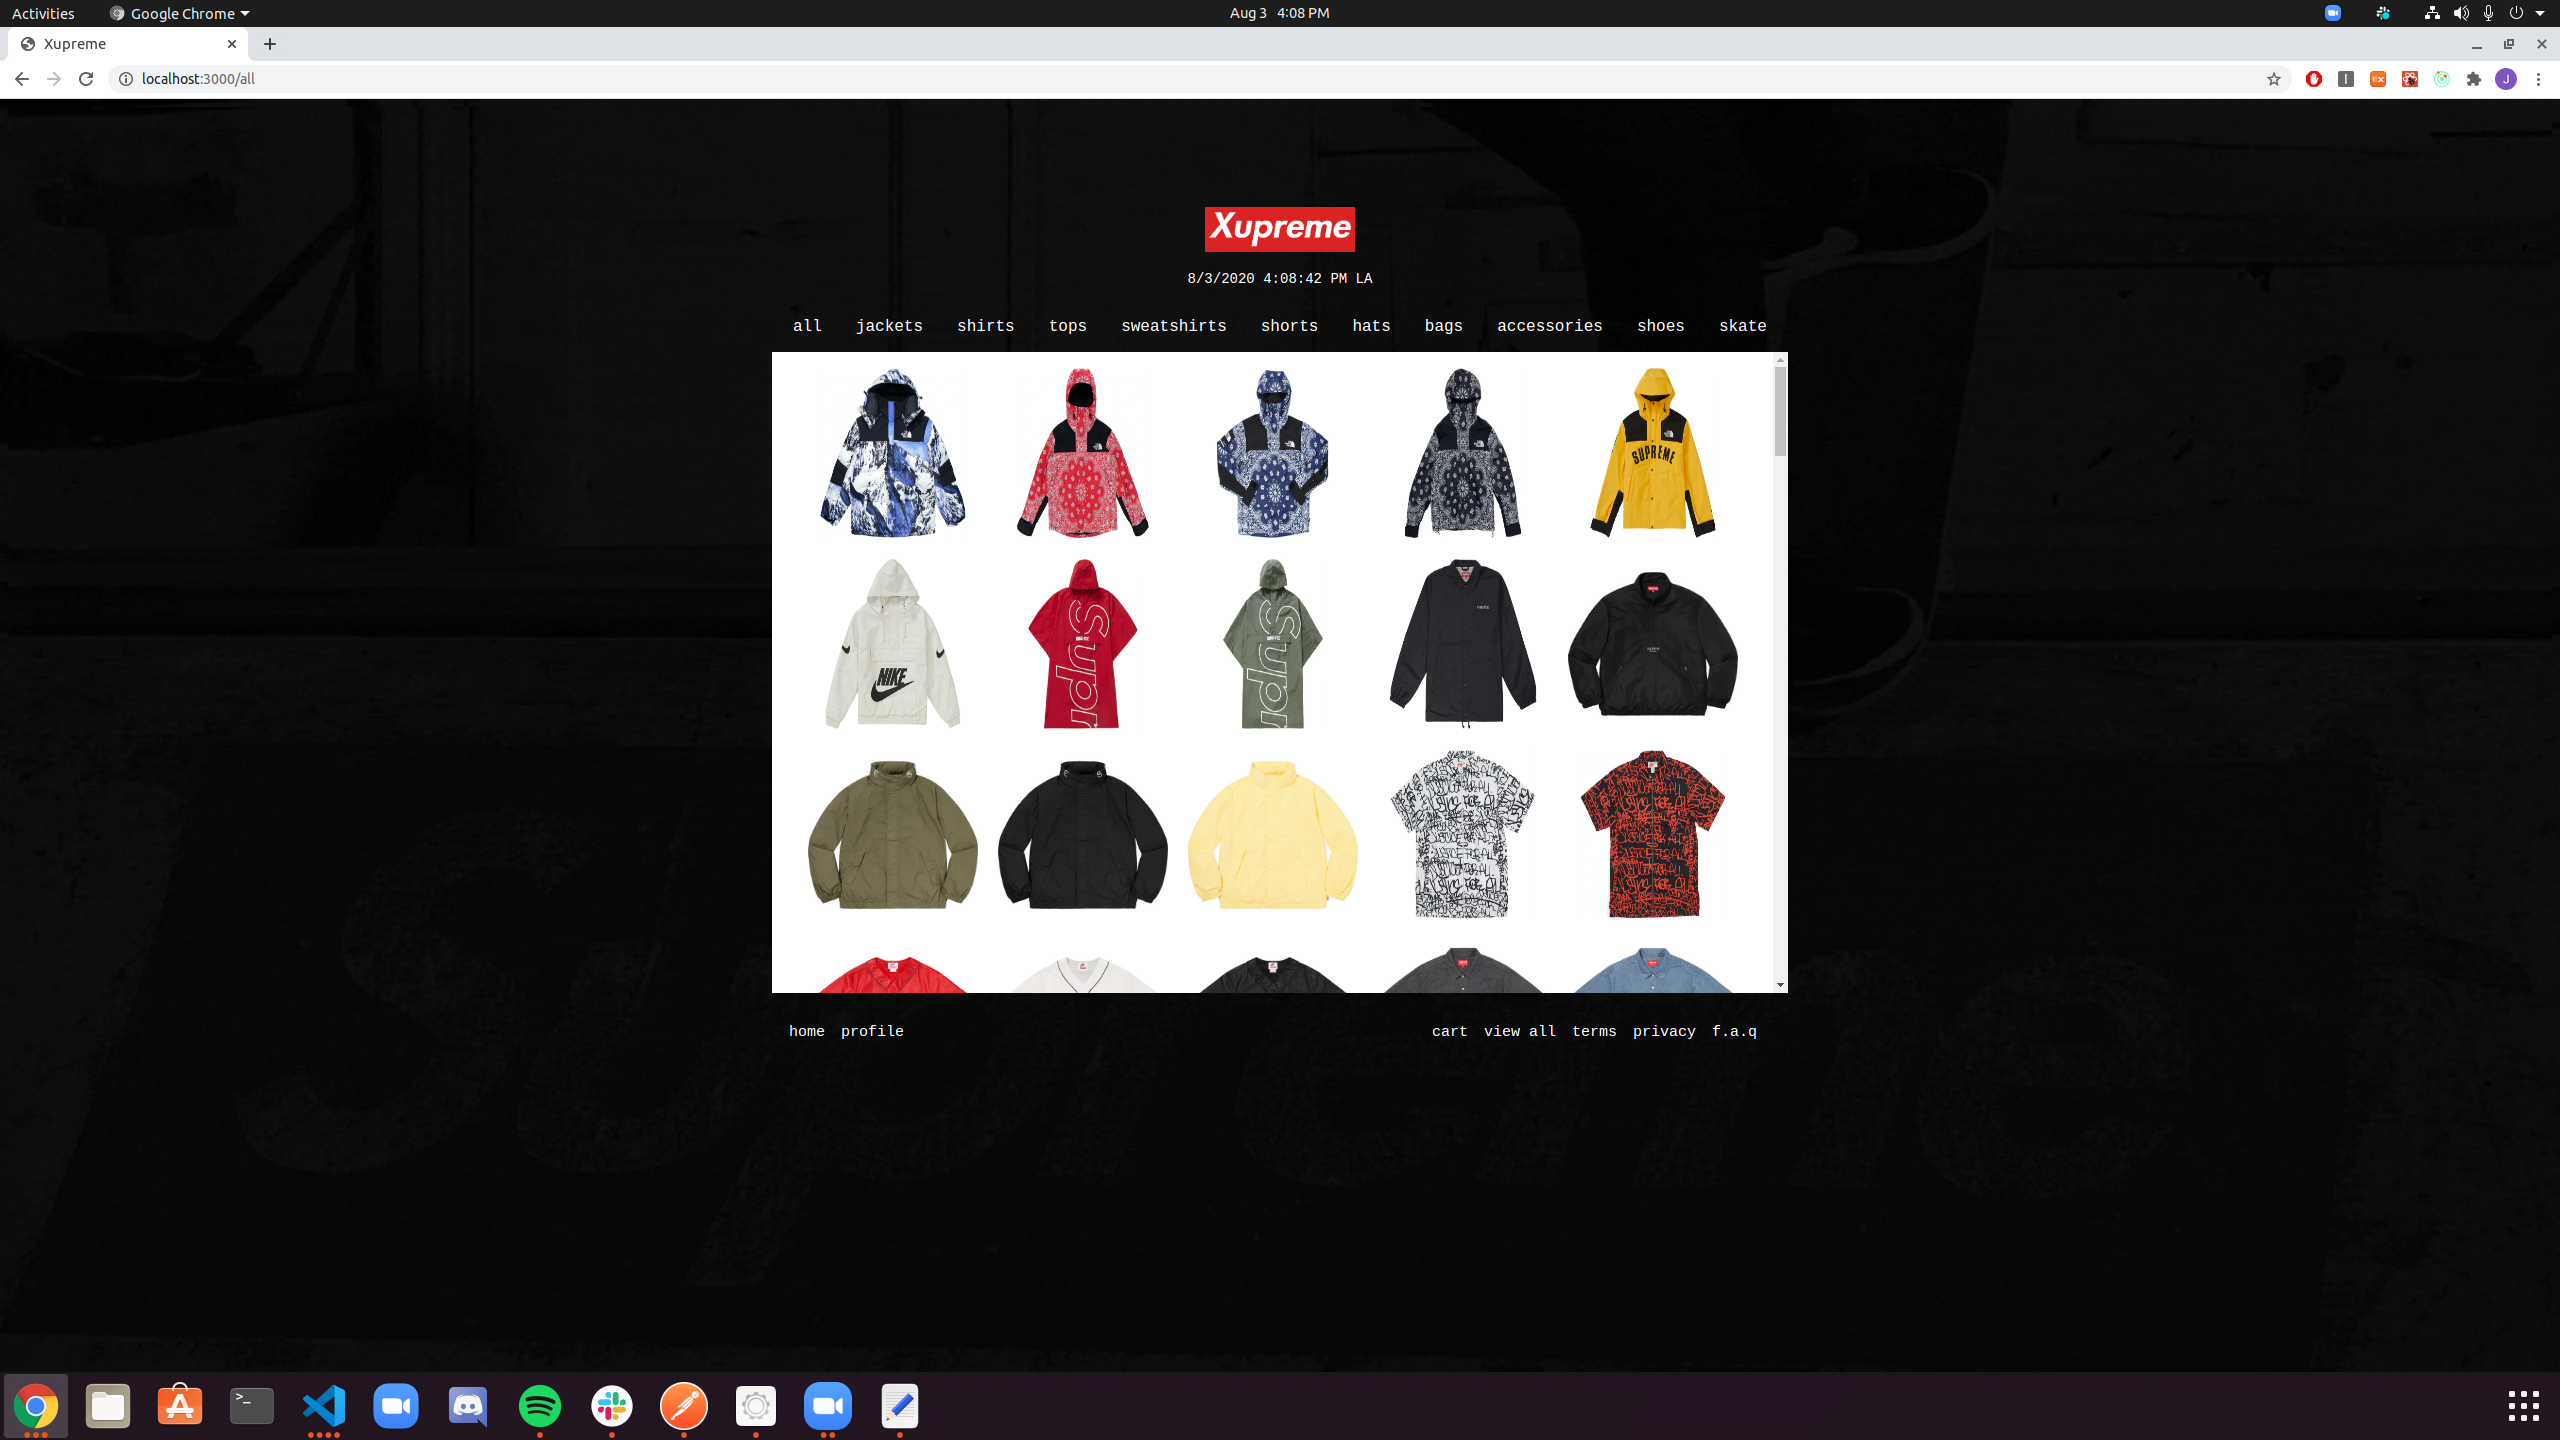
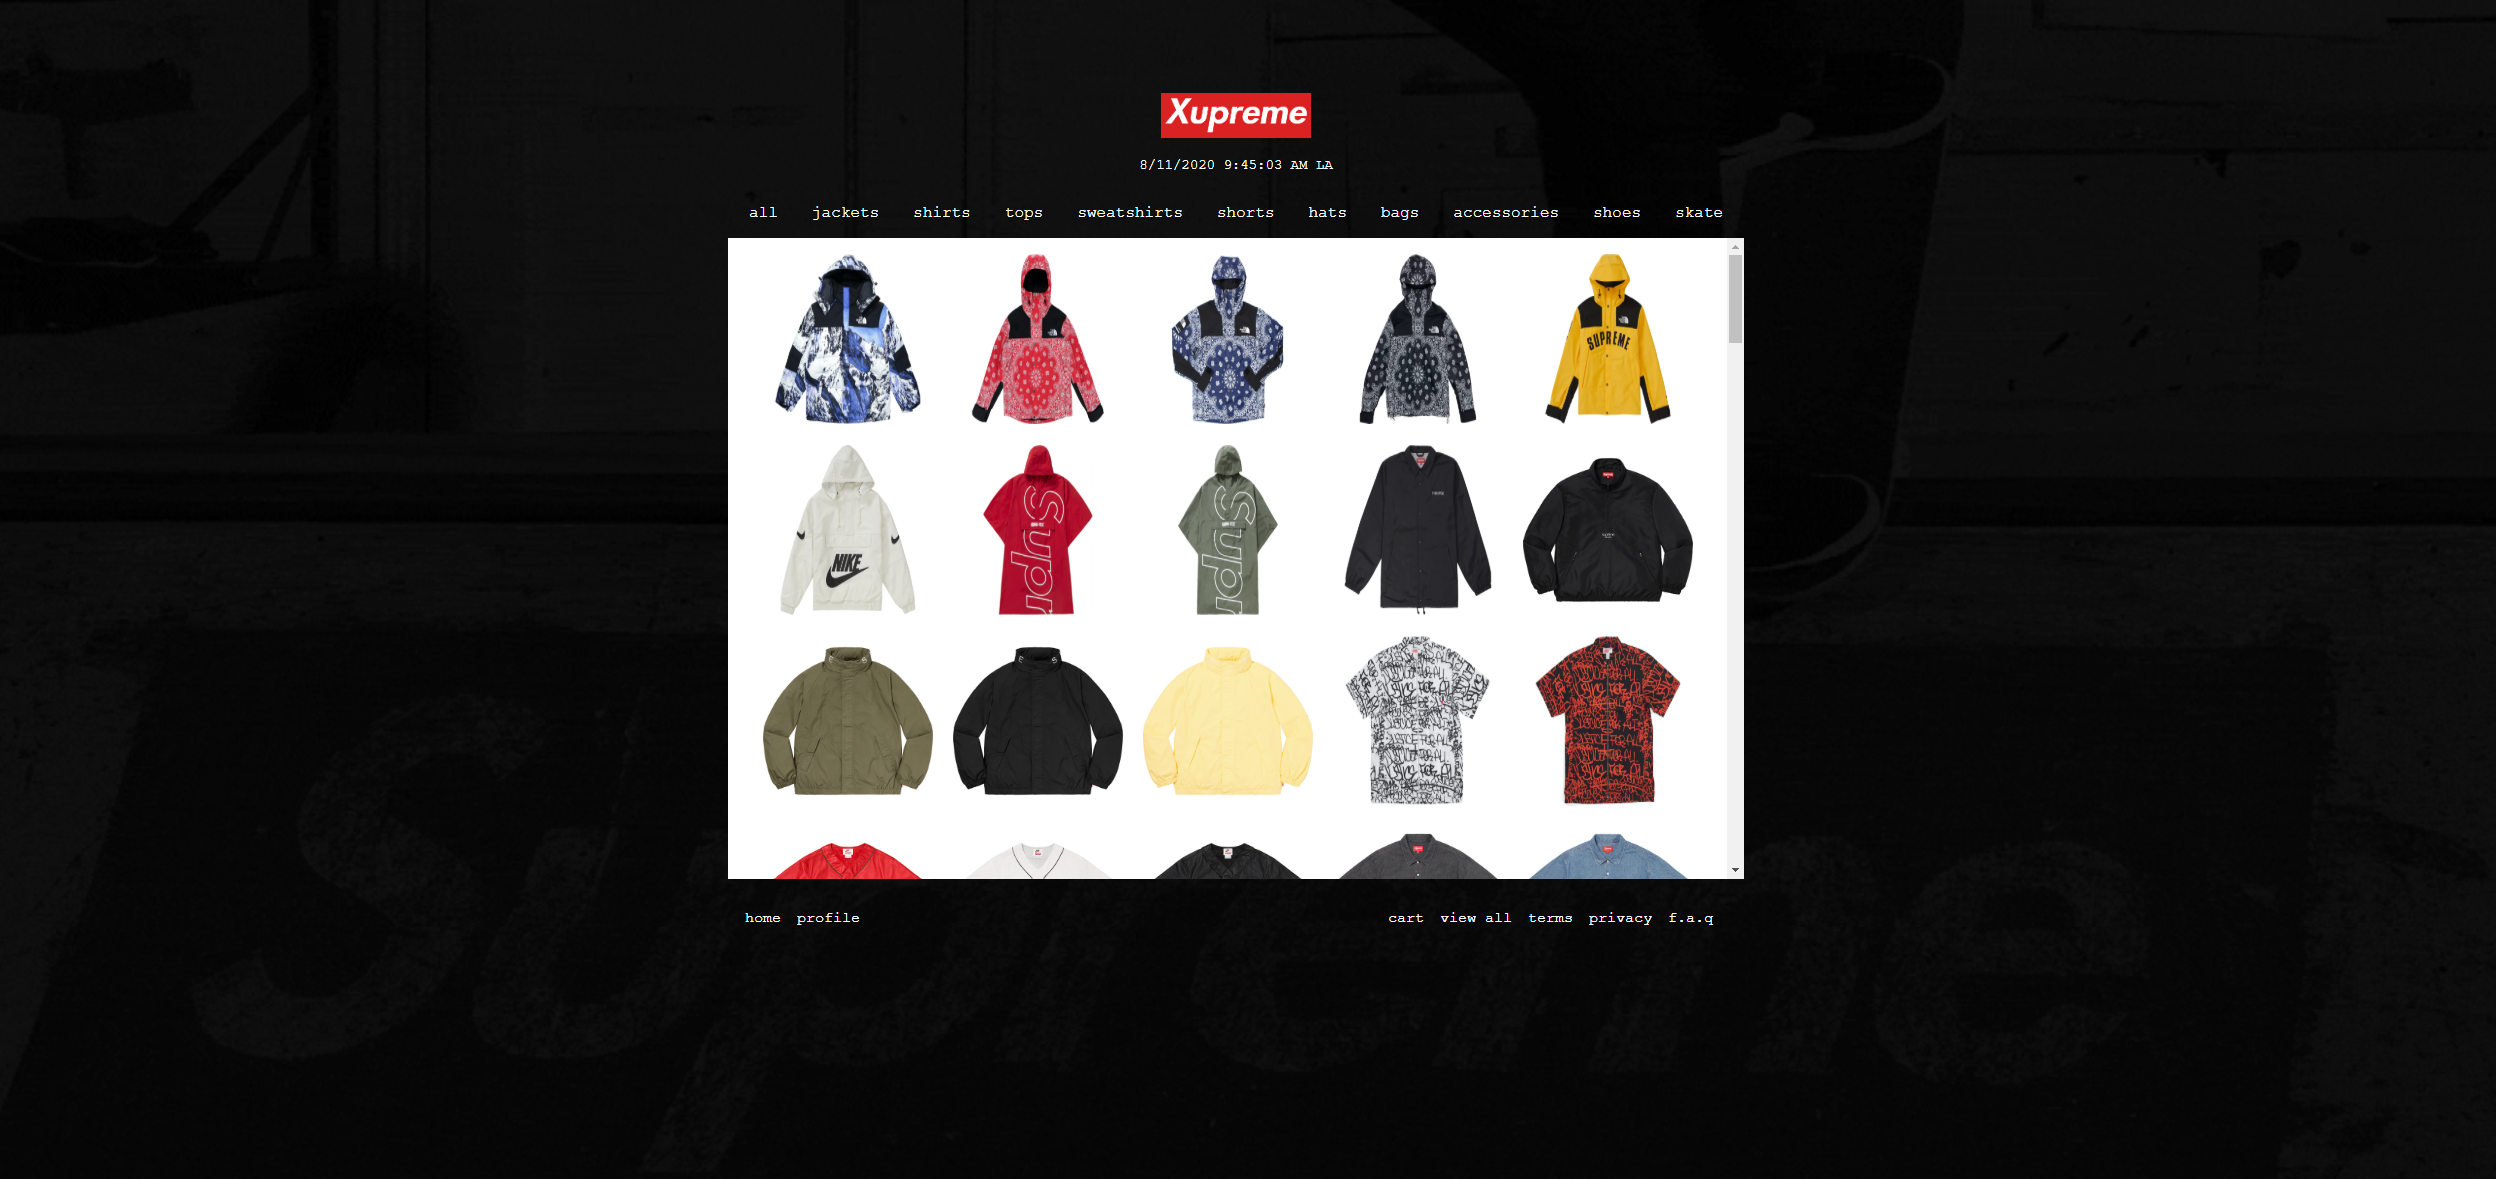
updates

Changed region(s): [[0.0, 0.0, 1.0, 0.7634], [0.0, 0.9466, 0.9688, 1.0]]

diff --git a/src/components/NavLower.js b/src/components/NavLower.js
@@ -12,9 +12,9 @@ const NavLower = props => {
             <div className='nav-right'>
                 <NavLink className="navlower navlower__profile" to='/cart'>cart</NavLink>
                 <NavLink className="navlower navlower__viewall" to='/all'>view all</NavLink>
-                <NavLink className="navlower navlower__shop" to='/terms'>terms</NavLink>
-                <NavLink className="navlower navlower__stores" to='/privacy'>privacy</NavLink>
-                <NavLink className="navlower navlower__privacy" to='/faq'>f.a.q</NavLink>
+                {/* <NavLink className="navlower navlower__shop" to='/terms'>terms</NavLink> */}
+                <NavLink className="navlower navlower__stores" to='/privacy'>bio</NavLink>
+                <NavLink className="navlower navlower__privacy" to='/faq'>contact</NavLink>
             </div>
         </div>
     )

diff --git a/src/stylesheets/productlist.css b/src/stylesheets/productlist.css
@@ -26,9 +26,9 @@
     margin: 2px 4px;
 }
 
-.product__list-product-img img:hover {
-    border: 1px solid #b5b5b5;
-}
+/* .product__list-product-img img:hover {
+    border: 0px solid transparent;
+} */
 
 .category__map--container {
     background-color: #ffffff;
